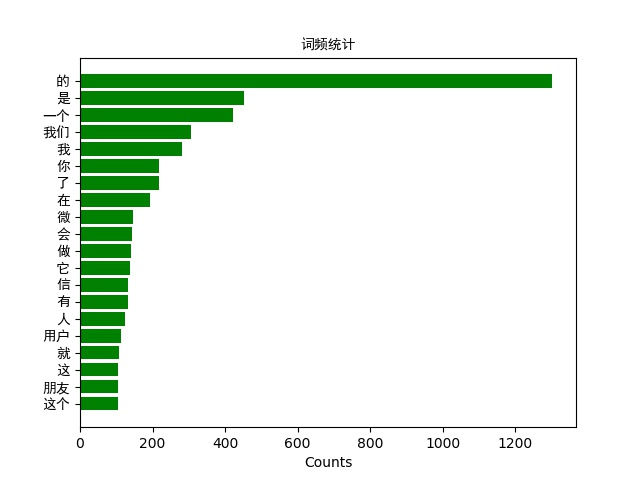
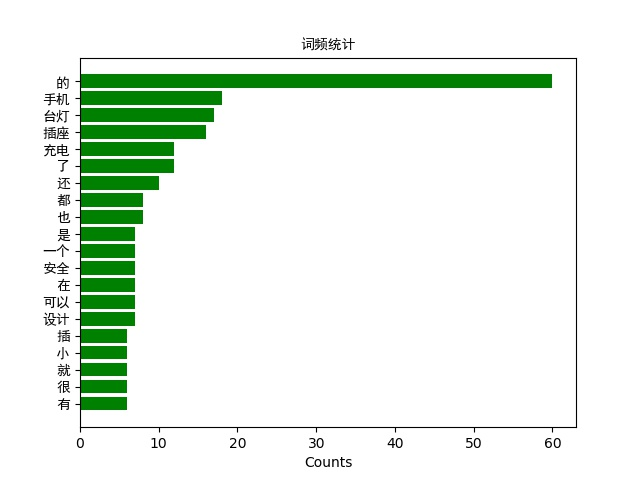
day 13 commit 2

diff --git a/19100303/lunbixiaozi/d13_training3.py b/19100303/lunbixiaozi/d13_training3.py
@@ -1,0 +1,61 @@
+#coding:utf-8
+from pyquery import PyQuery
+from wxpy import *
+import requests
+import getpass
+import mymodule.stats_word
+import matplotlib.pyplot as plt
+from matplotlib.font_manager import *
+
+import matplotlib
+matplotlib.matplotlib_fname() #将会获得matplotlib包所在文件夹
+import numpy as np
+
+pic_path = 'C:\\Users\\flami\Documents\\GitHub\\selfteaching-python-camp\\19100303\\lunbixiaozi\\'
+
+###pictures:
+
+def pic_create(counter_cn_dict):
+    counter_cn_dict_keys = []
+    counter_cn_dict_values = []
+    plt.rcParams['font.sans-serif']=['SimHei']
+    plt.rcParams['axes.unicode_minus'] = False
+    myfont = FontProperties(fname='C:/ProgramData/Anaconda3/Lib/site-packages/matplotlib/mpl-data/fonts/ttf/SimHei.ttf')
+    plt.rcdefaults()
+    fig, ax = plt.subplots()
+
+    for i in counter_cn_dict.keys(): 
+        counter_cn_dict_keys.append(i)
+    for i in counter_cn_dict.values(): 
+        counter_cn_dict_values.append(i)
+
+
+
+    y_pos = np.arange(len(counter_cn_dict_keys))
+
+    ax.barh(y_pos, counter_cn_dict_values, align='center', color='green', ecolor='black')
+    ax.set_yticks(y_pos)
+    ax.set_yticklabels(counter_cn_dict_keys, fontproperties=myfont)
+    ax.invert_yaxis()
+    ax.set_xlabel('Counts')
+    ax.set_title('词频统计', fontproperties=myfont)
+    plt.savefig(pic_path + 'frequency.jpg')
+    #plt.show()
+
+if __name__=="__main__":
+    bot = Bot()
+    myself = bot.self
+    bot.file_helper.send('Hello from wxpy!')
+    @bot.register()
+    def print_messages(msg):
+        if msg.type == SHARING:
+            r=requests.get(msg.url,auth=('user','pass')) 
+            document=PyQuery(r.text)
+            content=document('#js_content').text()
+            counter_cn_dict = mymodule.stats_word.stats_text_cn(content, 20)
+            pic_create(counter_cn_dict)
+    
+            msg.reply_image(pic_path + 'frequency.jpg' )
+        
+    embed()
+    

diff --git a/19100303/lunbixiaozi/d12_training2.py b/19100303/lunbixiaozi/d12_training2.py
@@ -5,20 +5,20 @@ import requests
 import getpass
 import mymodule.stats_word
 
-
 bot = Bot()
 myself = bot.self
 bot.file_helper.send('Hello from wxpy!')
 
 @bot.register()
 def print_messages(msg):
-    if msg.type == SHARING:
-        r=requests.get(msg.url,auth=('user','pass')) 
-        document=PyQuery(r.text)
-        content=document('#js_content').text()
-        counter_cn_dict = mymodule.stats_word.stats_text_cn(content, 100)
-        counter_cn_string = str(counter_cn_dict)
-        msg.reply(counter_cn_string)
-
+        
+        if msg.type == SHARING:
+                r=requests.get(msg.url,auth=('user','pass')) 
+                document=PyQuery(r.text)
+                content=document('#js_content').text()
+                counter_cn_dict = mymodule.stats_word.stats_text_cn(content, 100)
+                counter_cn_string = str(counter_cn_dict)
+                msg.reply(counter_cn_string)
+        
 embed()
 
